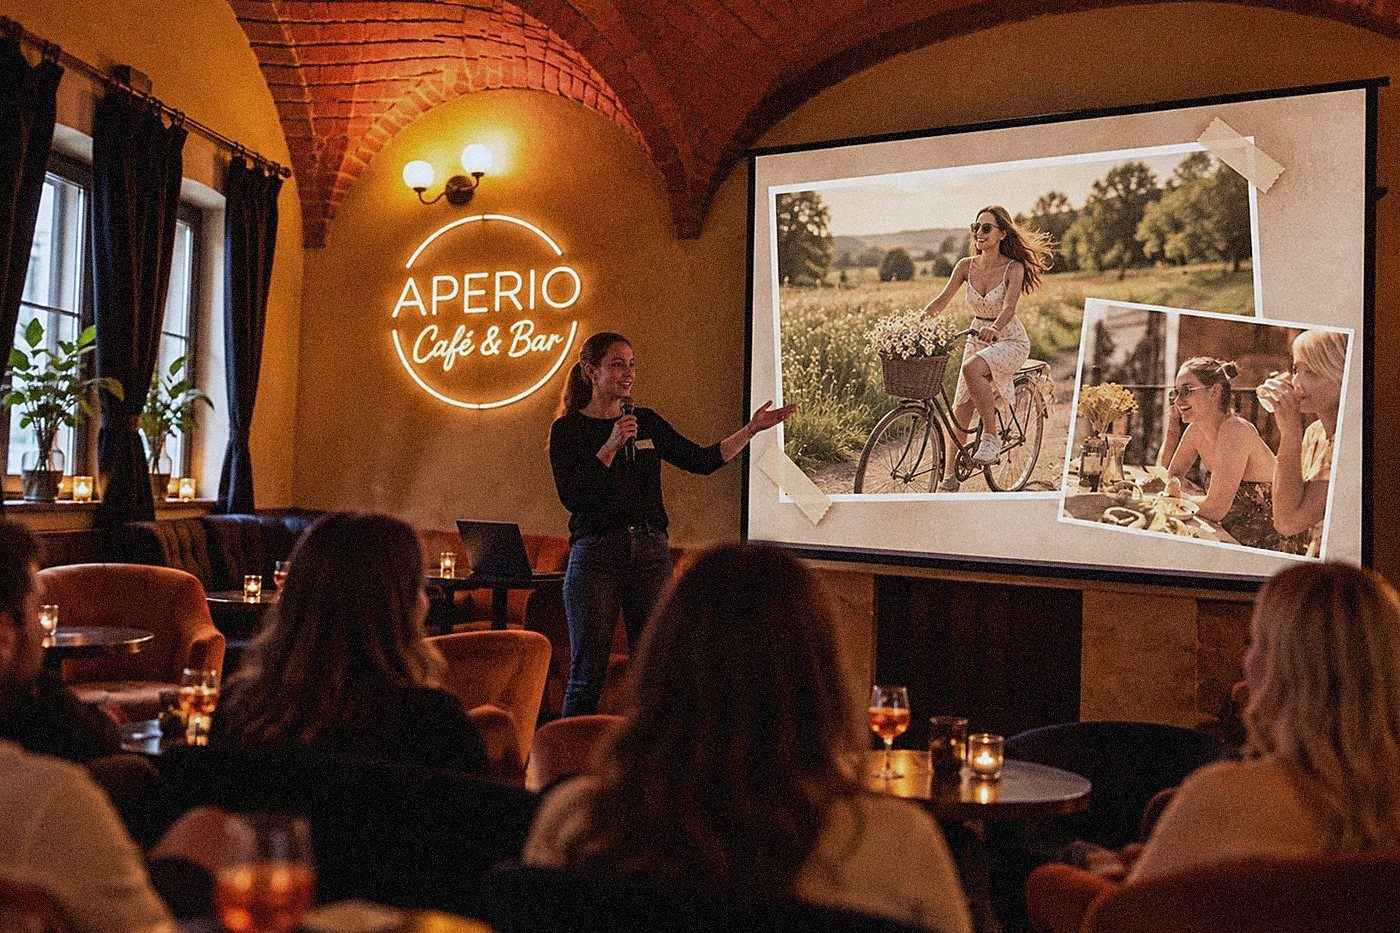
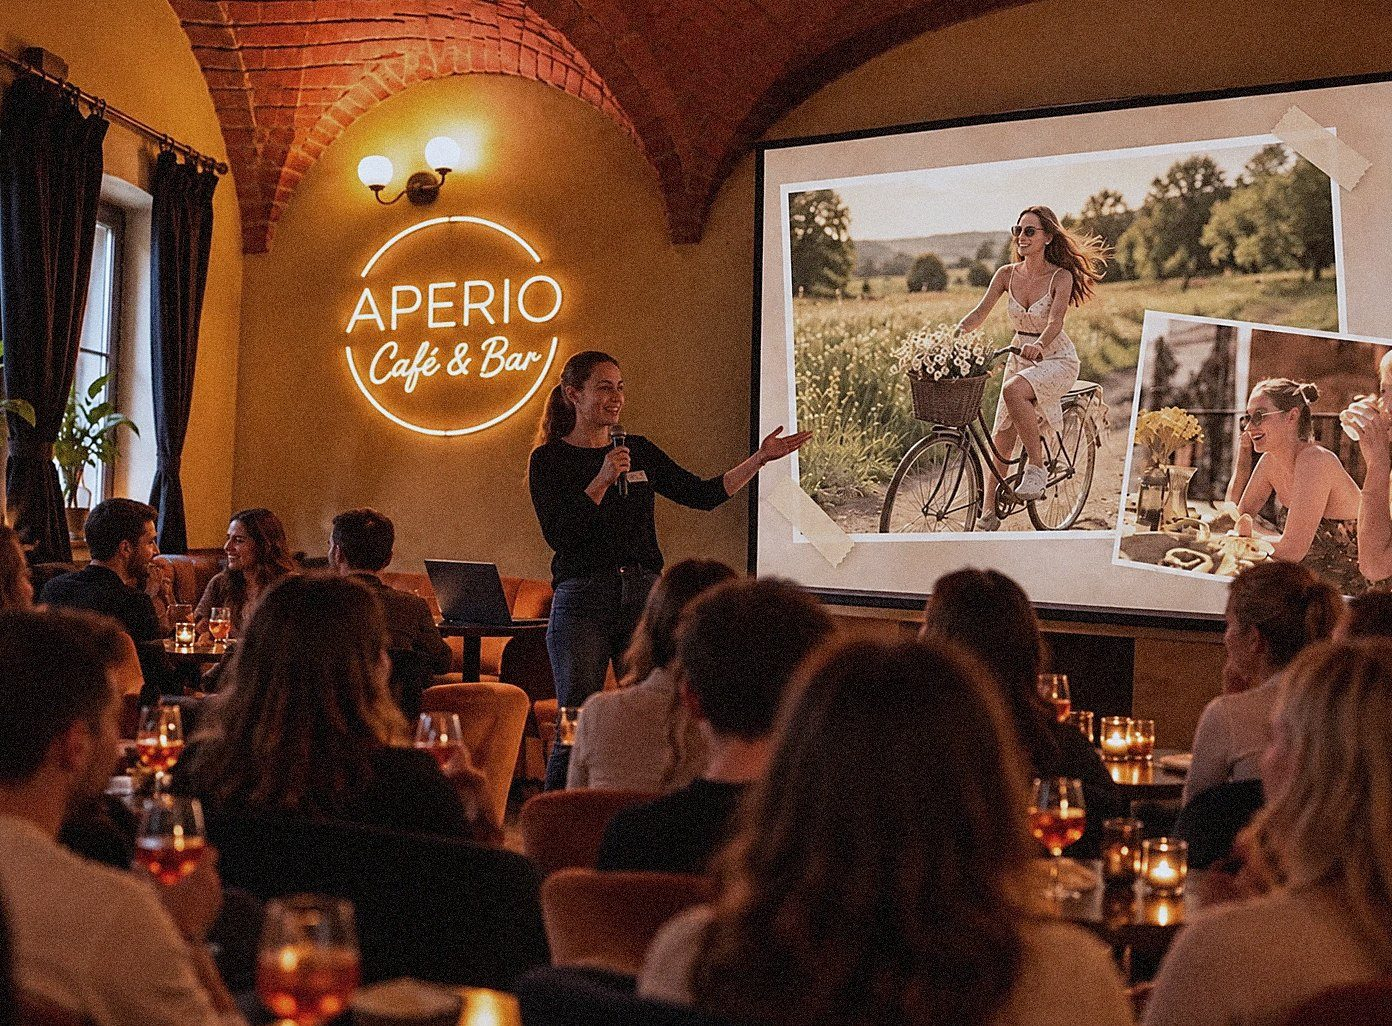
SINGLES SHOW: fotka APERIO s plným barom

diff --git a/single-show.html b/single-show.html
@@ -82,7 +82,7 @@
           </ul>
         </div>
         <div class="show-intro-photo">
-          <img fetchpriority="high" src="img/show-hero-aperio.webp?v=2" srcset="img/show-hero-aperio-800.webp?v=2 800w, img/show-hero-aperio.webp?v=2 1400w" sizes="(max-width: 760px) 100vw, 50vw" alt="Moderátorka v bare s mikrofónom ukazuje na plátno s fotkami, publikum sedí pri sviečkach" width="1400" height="933">
+          <img fetchpriority="high" src="img/show-hero-aperio.webp?v=3" srcset="img/show-hero-aperio-800.webp?v=3 800w, img/show-hero-aperio.webp?v=3 1400w" sizes="(max-width: 760px) 100vw, 50vw" alt="Moderátorka v bare s mikrofónom ukazuje na plátno s fotkami, publikum sedí pri sviečkach" width="1392" height="1026">
           <p class="hand show-side-note show-intro-hand">Žiadne neosobné profily z appky ani nekonečné swipovanie.</p>
         </div>
       </div>
